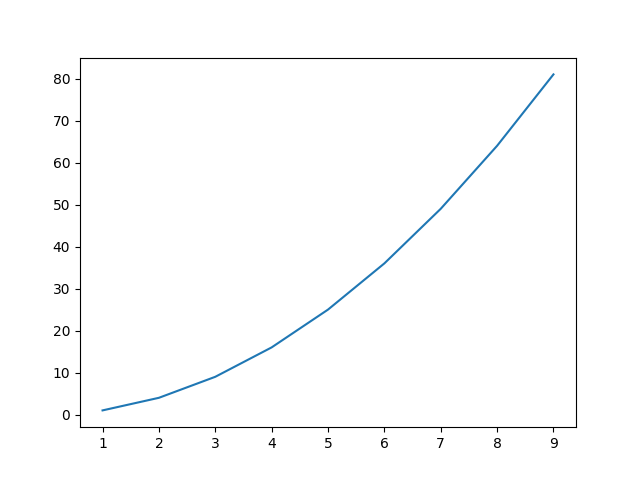
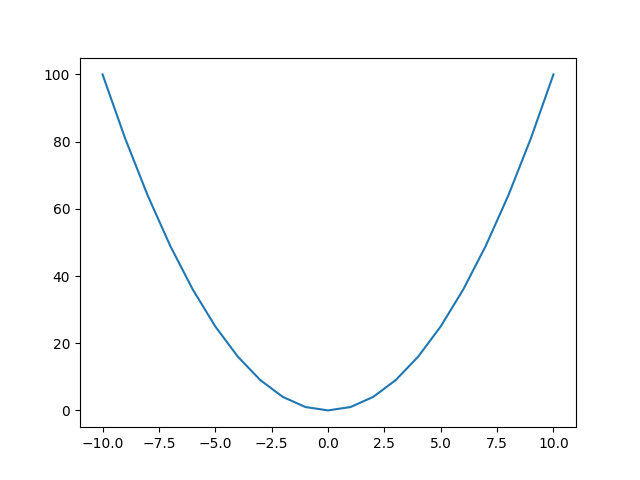
matplotlib-introduction.png

diff --git a/numpy-basics/matplotlib-basics/matplotlib-introduction.py b/numpy-basics/matplotlib-basics/matplotlib-introduction.py
@@ -2,7 +2,7 @@ import numpy as np
 import matplotlib.pyplot as plt
 
 
-x = np.arange(1,10,1)
+x = np.arange(-10,11,1)
 y = x**2
 
 